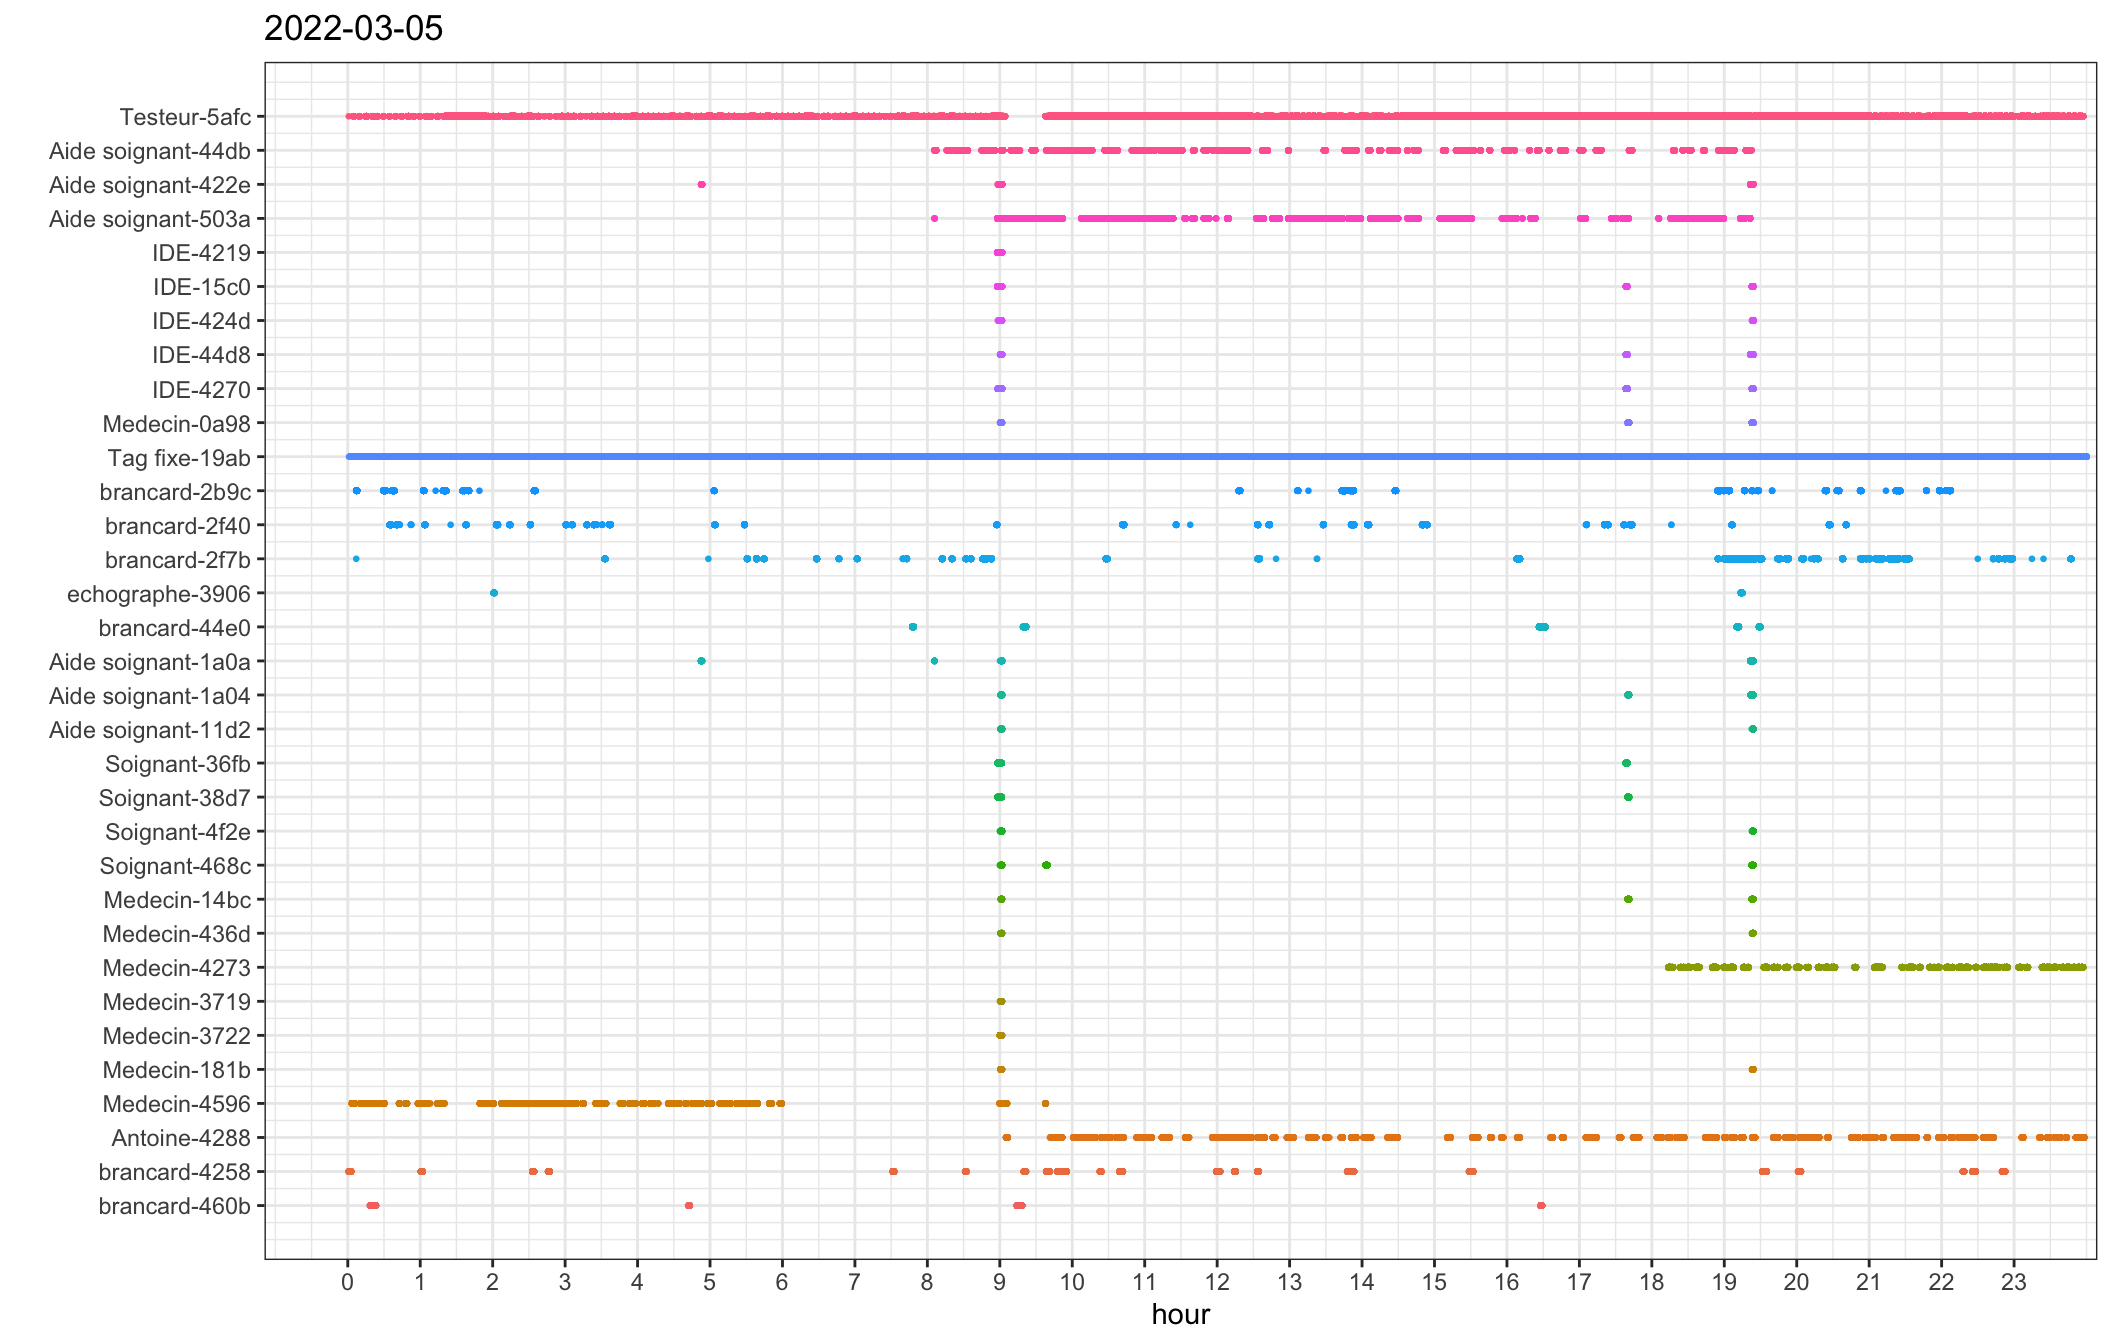
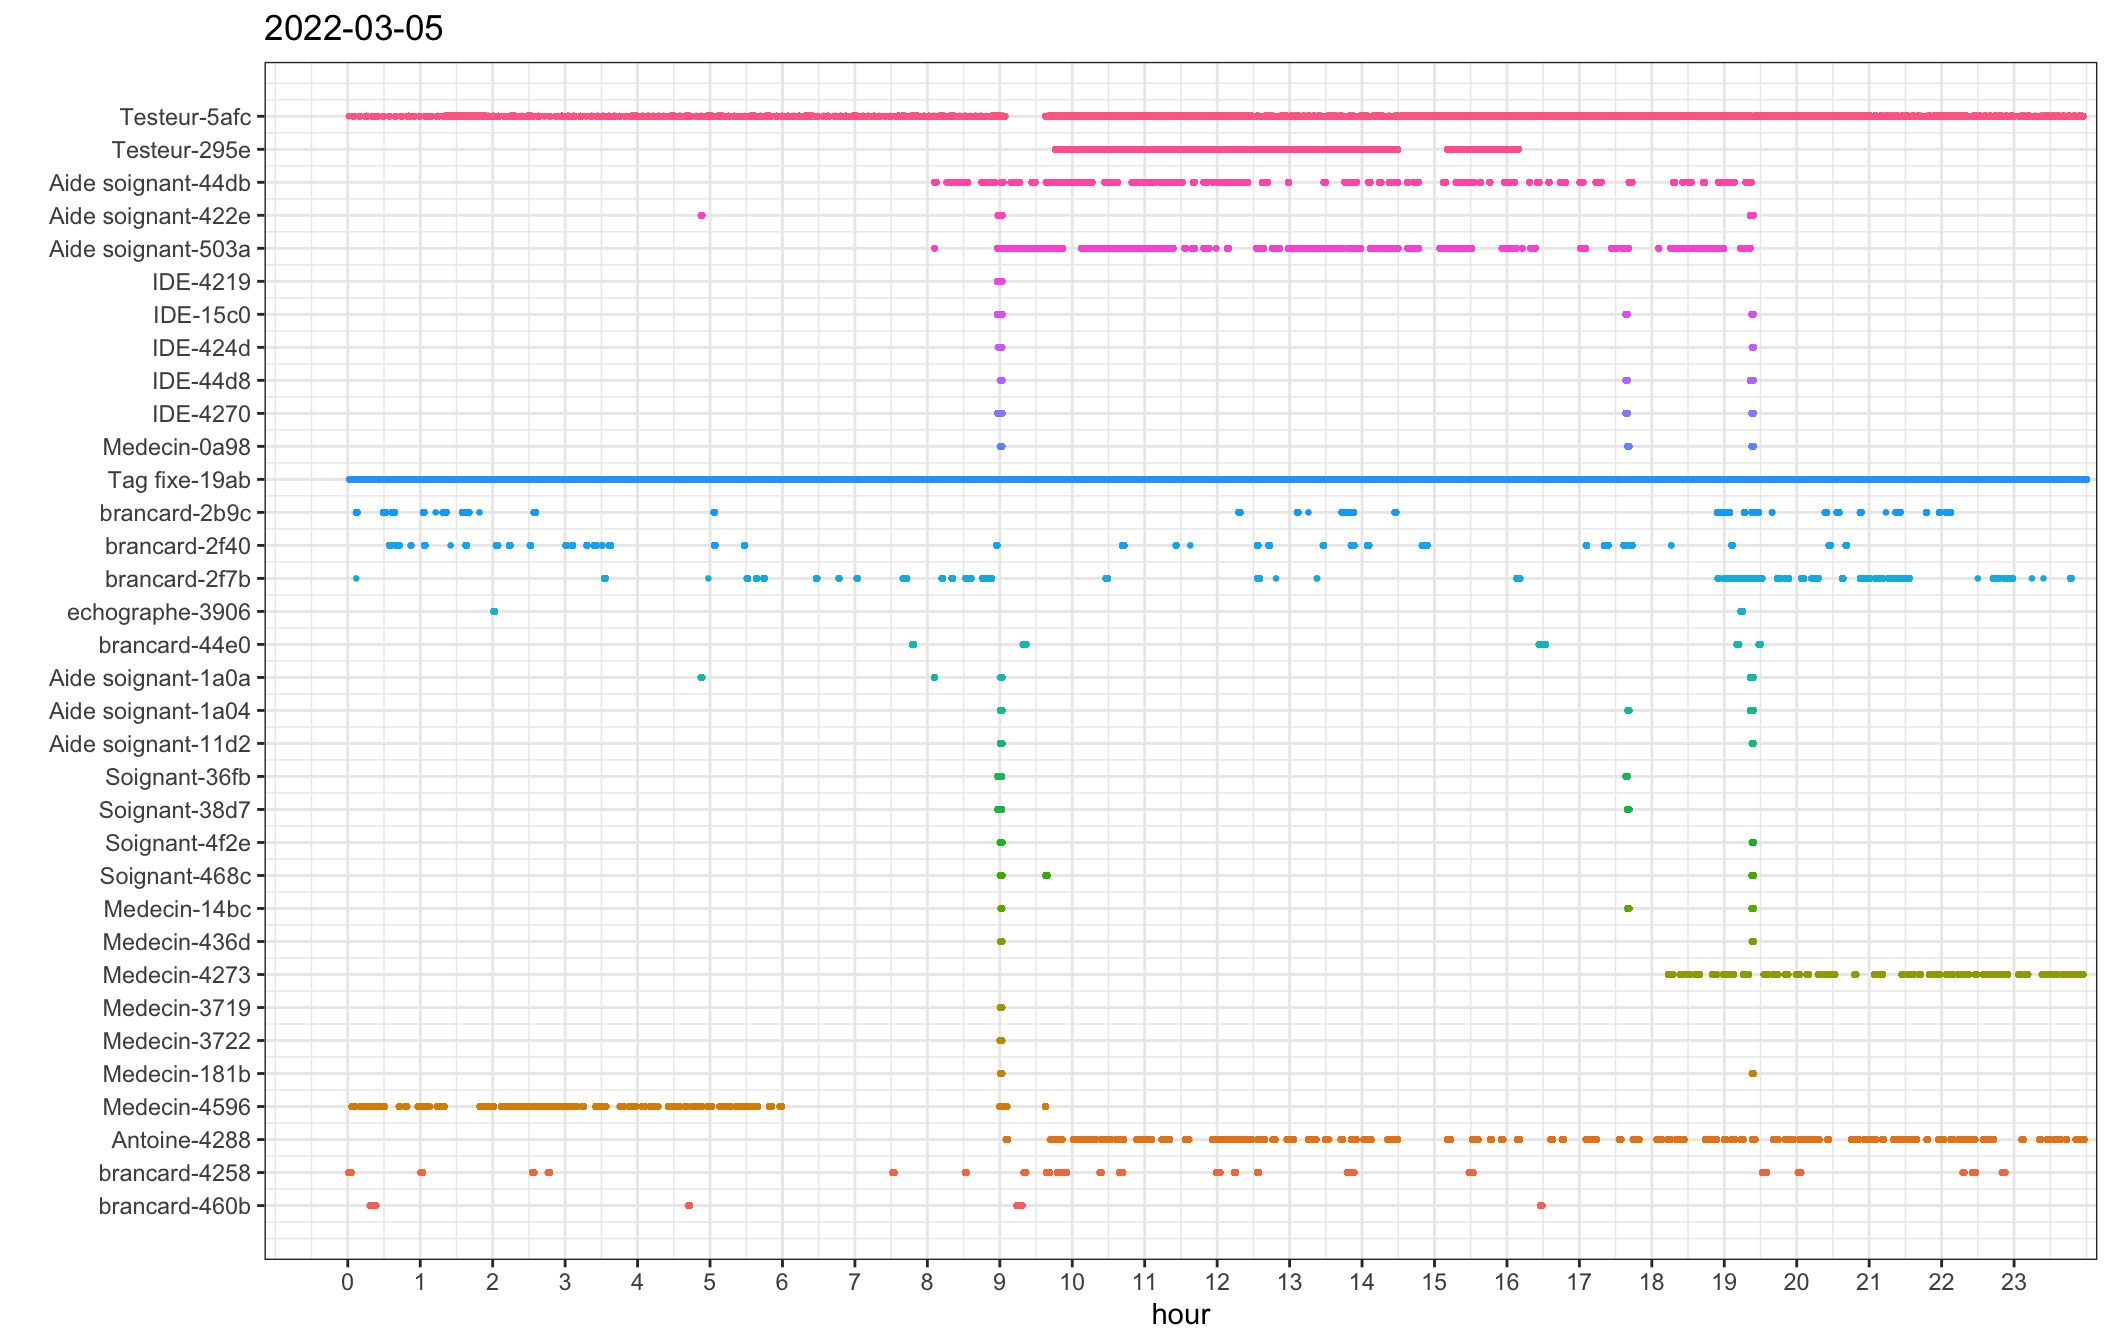
Build site.

Changed region(s): [[0.0, 0.0938, 1.0, 0.875], [0.75, 0.5, 0.7812, 0.5312], [0.3125, 0.5, 0.3438, 0.5312]]

diff --git a/docs/2022-03-05.html b/docs/2022-03-05.html
@@ -416,7 +416,7 @@ div.tocify {
 <div class="tab-content">
 <div id="summary" class="tab-pane fade in active">
 <p>
-<strong>Last updated:</strong> 2022-03-06
+<strong>Last updated:</strong> 2022-03-07
 </p>
 <p>
 <strong>Checks:</strong> <span class="glyphicon glyphicon-ok text-success" aria-hidden="true"></span> 7 <span class="glyphicon glyphicon-exclamation-sign text-danger" aria-hidden="true"></span> 0
@@ -507,16 +507,16 @@ This reproducible <a href="https://rmarkdown.rstudio.com">R Markdown</a> analysi
 <div class="panel panel-default">
 <div class="panel-heading">
 <p class="panel-title">
-<a data-toggle="collapse" data-parent="#workflowr-checks" href="#strongRepositoryversionstrongahrefhttpsgithubcomcfcforeverTesttreefdfbc29534ef24ad1a2af8357a8083fffec15420targetblankfdfbc29a"> <span class="glyphicon glyphicon-ok text-success" aria-hidden="true"></span> <strong>Repository version:</strong> <a href="https://github.com/cfcforever/Test/tree/fdfbc29534ef24ad1a2af8357a8083fffec15420" target="_blank">fdfbc29</a> </a>
+<a data-toggle="collapse" data-parent="#workflowr-checks" href="#strongRepositoryversionstrongahrefhttpsgithubcomcfcforeverTesttreeb4f357dafe1e92b2bafdfe5e2e514a4277c13a75targetblankb4f357da"> <span class="glyphicon glyphicon-ok text-success" aria-hidden="true"></span> <strong>Repository version:</strong> <a href="https://github.com/cfcforever/Test/tree/b4f357dafe1e92b2bafdfe5e2e514a4277c13a75" target="_blank">b4f357d</a> </a>
 </p>
 </div>
[2 lines of base64/hex data omitted]
 <div class="panel-body">
 <p>
 Great! You are using Git for version control. Tracking code development and connecting the code version to the results is critical for reproducibility.
 </p>
 <p>
-The results in this page were generated with repository version <a href="https://github.com/cfcforever/Test/tree/fdfbc29534ef24ad1a2af8357a8083fffec15420" target="_blank">fdfbc29</a>. See the <em>Past versions</em> tab to see a history of the changes made to the R Markdown and HTML files.
+The results in this page were generated with repository version <a href="https://github.com/cfcforever/Test/tree/b4f357dafe1e92b2bafdfe5e2e514a4277c13a75" target="_blank">b4f357d</a>. See the <em>Past versions</em> tab to see a history of the changes made to the R Markdown and HTML files.
 </p>
 <p>
 Note that you need to be careful to ensure that all relevant files for the analysis have been committed to Git prior to generating the results (you can use <code>wflow_publish</code> or <code>wflow_git_commit</code>). workflowr only checks the R Markdown file, but you know if there are other scripts or data files that it depends on. Below is the status of the Git repository when the results were generated:
@@ -532,9 +532,6 @@ Ignored files:
     Ignored:    fig/
     Ignored:    figure/
     Ignored:    workflowr.R
-
-Unstaged changes:
-    Modified:   analysis/synthese_20211222.Rmd
 
 </code></pre>
 <p>
@@ -573,6 +570,23 @@ Message
 </tr>
 </thead>
 <tbody>
+<tr>
+<td>
+html
+</td>
+<td>
+<a href="https://rawcdn.githack.com/cfcforever/Test/e64842f579ceb8bff8e3bfd4a62e4feca6bcedd5/docs/2022-03-05.html" target="_blank">e64842f</a>
+</td>
+<td>
+cfcforever
+</td>
+<td>
+2022-03-06
+</td>
+<td>
+Build site.
+</td>
+</tr>
 <tr>
 <td>
 html
@@ -1447,6 +1461,29 @@ Aide soignant
 </td>
 <td style="text-align:right;">
 0.82
+</td>
+</tr>
+<tr>
+<td style="text-align:left;">
+295e
+</td>
+<td style="text-align:left;">
+Testeur
+</td>
+<td style="text-align:left;">
+2022-03-05 09:46:08
+</td>
+<td style="text-align:left;">
+2022-03-05 16:09:25
+</td>
+<td style="text-align:right;">
+96891
+</td>
+<td style="text-align:right;">
+9529
+</td>
+<td style="text-align:right;">
+0.90
 </td>
 </tr>
 <tr>
@@ -2843,6 +2880,47 @@ Aide soignant
 </td>
 <td style="text-align:right;">
 2069.803
+</td>
+</tr>
+<tr>
+<td style="text-align:left;">
+295e
+</td>
+<td style="text-align:left;">
+Testeur
+</td>
+<td style="text-align:right;">
+0.144
+</td>
+<td style="text-align:right;">
+0.199
+</td>
+<td style="text-align:right;">
+0.199
+</td>
+<td style="text-align:right;">
+0.200
+</td>
+<td style="text-align:right;">
+0.200
+</td>
+<td style="text-align:right;">
+0.2
+</td>
+<td style="text-align:right;">
+0.200
+</td>
+<td style="text-align:right;">
+0.200
+</td>
+<td style="text-align:right;">
+0.201
+</td>
+<td style="text-align:right;">
+0.201
+</td>
+<td style="text-align:right;">
+2479.258
 </td>
 </tr>
 <tr>
@@ -4380,6 +4458,50 @@ Aide soignant
 </tr>
 <tr>
 <td style="text-align:left;">
+295e
+</td>
+<td style="text-align:left;">
+Testeur
+</td>
+<td style="text-align:right;">
+17
+</td>
+<td style="text-align:right;">
+0.112
+</td>
+<td style="text-align:right;">
+0.341
+</td>
+<td style="text-align:right;">
+0.488
+</td>
+<td style="text-align:right;">
+0.534
+</td>
+<td style="text-align:right;">
+0.608
+</td>
+<td style="text-align:right;">
+0.742
+</td>
+<td style="text-align:right;">
+1.083
+</td>
+<td style="text-align:right;">
+1.900
+</td>
+<td style="text-align:right;">
+2.972
+</td>
+<td style="text-align:right;">
+5.947
+</td>
+<td style="text-align:right;">
+8.809
+</td>
+</tr>
+<tr>
+<td style="text-align:left;">
 5afc
 </td>
 <td style="text-align:left;">
@@ -4437,7 +4559,6 @@ p &lt;- ggplot(dat) + theme_bw() +
   theme(legend.position = &quot;None&quot;) +
   labs(x = &quot;hour&quot;, y = &quot;&quot;, title = today)
 print(p)</code></pre>
-<pre><code>Warning: Removed 97201 rows containing missing values (geom_point).</code></pre>
 <p><img src="figure/2022-03-05.Rmd/unnamed-chunk-7-1.png" width="1056" style="display: block; margin: auto;" /></p>
 <p>
 <button type="button" class="btn btn-default btn-xs btn-workflowr btn-workflowr-fig" data-toggle="collapse" data-target="#fig-unnamed-chunk-7-1">
@@ -5431,8 +5552,8 @@ cfcforever
 </div>
 </div>
 </div>
-<div id="afc---testeur" class="section level2">
-<h2>5afc - Testeur</h2>
+<div id="e---testeur" class="section level2">
+<h2>295e - Testeur</h2>
 <p><img src="figure/2022-03-05.Rmd/unnamed-chunk-11-22.png" width="672" style="display: block; margin: auto;" /></p>
 <p>
 <button type="button" class="btn btn-default btn-xs btn-workflowr btn-workflowr-fig" data-toggle="collapse" data-target="#fig-unnamed-chunk-11-22">
@@ -5471,6 +5592,10 @@ cfcforever
 </table>
 </div>
 </div>
+</div>
+<div id="afc---testeur" class="section level2">
+<h2>5afc - Testeur</h2>
+<p><img src="figure/2022-03-05.Rmd/unnamed-chunk-11-23.png" width="672" style="display: block; margin: auto;" /></p>
 </div>
 </div>
 <div id="hourly-plot" class="section level1 tabset tabset-pills">
